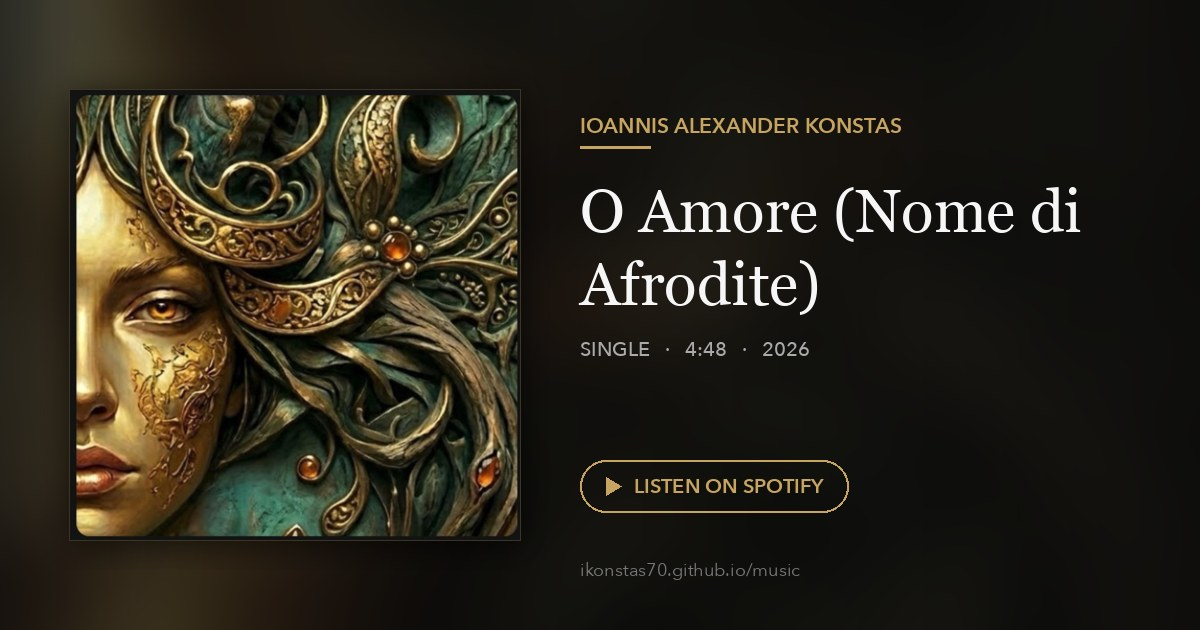
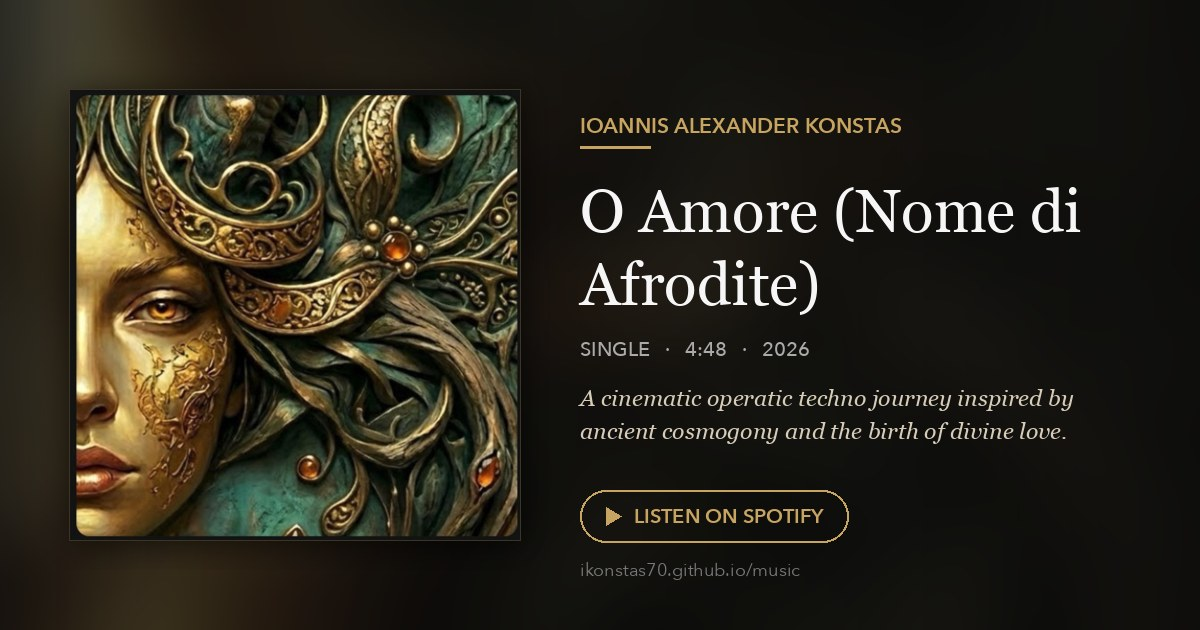
Nome di Afrodite: print the description on its share cards
Adds the italic lead line under the title on the release and track cards, and versions
the og:image URL (?v=2) so Facebook fetches the new image.

Changed region(s): [[0.4933, 0.6032, 0.8942, 0.6937], [0.4625, 0.7238, 0.7092, 0.8746]]

diff --git a/tracks/o-amore-baroque-inspired--nome-di-afrodite.html b/tracks/o-amore-baroque-inspired--nome-di-afrodite.html
@@ -12,8 +12,8 @@
 <meta property="og:url" content="https://ikonstas70.github.io/music/tracks/o-amore-baroque-inspired--nome-di-afrodite.html">
 <meta property="og:title" content="O Amore - Baroque Inspired — Ioannis Alexander Konstas">
 <meta property="og:description" content="A cinematic operatic techno journey inspired by ancient cosmogony and the birth of divine love. O Amore - Baroque Inspired by Ioannis Alexander Konstas — stream on Spotify.">
-<meta property="og:image" content="https://ikonstas70.github.io/music/share/tracks/o-amore-baroque-inspired--nome-di-afrodite.jpg">
-<meta property="og:image:secure_url" content="https://ikonstas70.github.io/music/share/tracks/o-amore-baroque-inspired--nome-di-afrodite.jpg">
+<meta property="og:image" content="https://ikonstas70.github.io/music/share/tracks/o-amore-baroque-inspired--nome-di-afrodite.jpg?v=2">
+<meta property="og:image:secure_url" content="https://ikonstas70.github.io/music/share/tracks/o-amore-baroque-inspired--nome-di-afrodite.jpg?v=2">
 <meta property="og:image:type" content="image/jpeg">
 <meta property="og:image:width" content="1200">
 <meta property="og:image:height" content="630">
@@ -22,7 +22,7 @@
 <meta name="twitter:card" content="summary_large_image">
 <meta name="twitter:title" content="O Amore - Baroque Inspired — Ioannis Alexander Konstas">
 <meta name="twitter:description" content="A cinematic operatic techno journey inspired by ancient cosmogony and the birth of divine love. O Amore - Baroque Inspired by Ioannis Alexander Konstas — stream on Spotify.">
-<meta name="twitter:image" content="https://ikonstas70.github.io/music/share/tracks/o-amore-baroque-inspired--nome-di-afrodite.jpg">
+<meta name="twitter:image" content="https://ikonstas70.github.io/music/share/tracks/o-amore-baroque-inspired--nome-di-afrodite.jpg?v=2">
 
 <link rel="stylesheet" href="/music/style.css">
 </head>

diff --git a/tracks/o-amore-nome-di-afrodite.html b/tracks/o-amore-nome-di-afrodite.html
@@ -12,8 +12,8 @@
 <meta property="og:url" content="https://ikonstas70.github.io/music/tracks/o-amore-nome-di-afrodite.html">
 <meta property="og:title" content="O Amore (Nome di Afrodite) — Ioannis Alexander Konstas">
 <meta property="og:description" content="A cinematic operatic techno journey inspired by ancient cosmogony and the birth of divine love. O Amore (Nome di Afrodite) by Ioannis Alexander Konstas — stream on Spotify.">
-<meta property="og:image" content="https://ikonstas70.github.io/music/share/tracks/o-amore-nome-di-afrodite.jpg">
-<meta property="og:image:secure_url" content="https://ikonstas70.github.io/music/share/tracks/o-amore-nome-di-afrodite.jpg">
+<meta property="og:image" content="https://ikonstas70.github.io/music/share/tracks/o-amore-nome-di-afrodite.jpg?v=2">
+<meta property="og:image:secure_url" content="https://ikonstas70.github.io/music/share/tracks/o-amore-nome-di-afrodite.jpg?v=2">
 <meta property="og:image:type" content="image/jpeg">
 <meta property="og:image:width" content="1200">
 <meta property="og:image:height" content="630">
@@ -22,7 +22,7 @@
 <meta name="twitter:card" content="summary_large_image">
 <meta name="twitter:title" content="O Amore (Nome di Afrodite) — Ioannis Alexander Konstas">
 <meta name="twitter:description" content="A cinematic operatic techno journey inspired by ancient cosmogony and the birth of divine love. O Amore (Nome di Afrodite) by Ioannis Alexander Konstas — stream on Spotify.">
-<meta name="twitter:image" content="https://ikonstas70.github.io/music/share/tracks/o-amore-nome-di-afrodite.jpg">
+<meta name="twitter:image" content="https://ikonstas70.github.io/music/share/tracks/o-amore-nome-di-afrodite.jpg?v=2">
 
 <link rel="stylesheet" href="/music/style.css">
 </head>

diff --git a/albums/nome-di-afrodite.html b/albums/nome-di-afrodite.html
@@ -12,8 +12,8 @@
 <meta property="og:url" content="https://ikonstas70.github.io/music/albums/nome-di-afrodite.html">
 <meta property="og:title" content="Nome di Afrodite — Ioannis Alexander Konstas">
 <meta property="og:description" content="A cinematic operatic techno journey inspired by ancient cosmogony and the birth of divine love. Single by Ioannis Alexander Konstas — stream on Spotify.">
-<meta property="og:image" content="https://ikonstas70.github.io/music/share/nome-di-afrodite.jpg">
-<meta property="og:image:secure_url" content="https://ikonstas70.github.io/music/share/nome-di-afrodite.jpg">
+<meta property="og:image" content="https://ikonstas70.github.io/music/share/nome-di-afrodite.jpg?v=2">
+<meta property="og:image:secure_url" content="https://ikonstas70.github.io/music/share/nome-di-afrodite.jpg?v=2">
 <meta property="og:image:type" content="image/jpeg">
 <meta property="og:image:width" content="1200">
 <meta property="og:image:height" content="630">
@@ -22,7 +22,7 @@
 <meta name="twitter:card" content="summary_large_image">
 <meta name="twitter:title" content="Nome di Afrodite — Ioannis Alexander Konstas">
 <meta name="twitter:description" content="A cinematic operatic techno journey inspired by ancient cosmogony and the birth of divine love. Single by Ioannis Alexander Konstas — stream on Spotify.">
-<meta name="twitter:image" content="https://ikonstas70.github.io/music/share/nome-di-afrodite.jpg">
+<meta name="twitter:image" content="https://ikonstas70.github.io/music/share/nome-di-afrodite.jpg?v=2">
 
 <link rel="stylesheet" href="/music/style.css">
 </head>

diff --git a/tools/build_track_pages.py b/tools/build_track_pages.py
@@ -52,7 +52,7 @@ def wrap(draw, text, font, max_width):
     return lines + [cur]
 
 
-def share_card(title, meta, cover_path, out_path):
+def share_card(title, meta, cover_path, out_path, lead=""):
     cover = Image.open(cover_path).convert("RGB")
     bg = ImageOps.fit(cover, (W, H)).filter(ImageFilter.GaussianBlur(40))
     bg = Image.blend(bg, Image.new("RGB", (W, H), BG), 0.72)
@@ -83,6 +83,13 @@ def share_card(title, meta, cover_path, out_path):
         y += int(s * 1.22)
     y += 14
     d.text((x, y), meta.upper().replace("·", "  ·  "), font=avenir(5, 20), fill=DIM)
+    if lead:                                             # release description, italic, under the details line
+        lead_font = ImageFont.truetype(GEORGIA.replace("Georgia.ttf", "Georgia Italic.ttf"), 23)
+        y += 48
+        for line in wrap(d, lead, lead_font, max_width)[:4]:
+            d.text((x, y), line, font=lead_font, fill=(214, 204, 184))
+            y += 33
+        y -= 20
 
     py = max(y + 60, H - 170)
     label, pf = "LISTEN ON SPOTIFY", avenir(2, 20)
@@ -202,10 +209,10 @@ def main():
                 desc = f"{title} — track {num} from the {r['kind']} “{r['title']}” by Ioannis Alexander Konstas. Stream on Spotify."
             if r["lead"]:
                 desc = f"{r['lead']} {title} by Ioannis Alexander Konstas — stream on Spotify."
-            share_card(title, card_meta, cover_path, os.path.join(ROOT, "share", "tracks", slug + ".jpg"))
+            share_card(title, card_meta, cover_path, os.path.join(ROOT, "share", "tracks", slug + ".jpg"), r["lead"])
             e = html.escape
             page = PAGE.format(
-                url=f"{SITE}/tracks/{slug}.html", img=f"{SITE}/share/tracks/{slug}.jpg", artist=ARTIST_URL,
+                url=f"{SITE}/tracks/{slug}.html", img=f"{SITE}/share/tracks/{slug}.jpg" + ("?v=2" if r["lead"] else ""), artist=ARTIST_URL,
                 title=e(title), title_full=e(f"{title} — Ioannis Alexander Konstas"), desc=e(desc), album=e(r["title"]),
                 cover_file=cover_file, meta_html=meta_html, track_id=track_id, back_html=back_html, notes_html=r["notes"])
             with open(os.path.join(ROOT, "tracks", slug + ".html"), "w", encoding="utf-8") as f:
